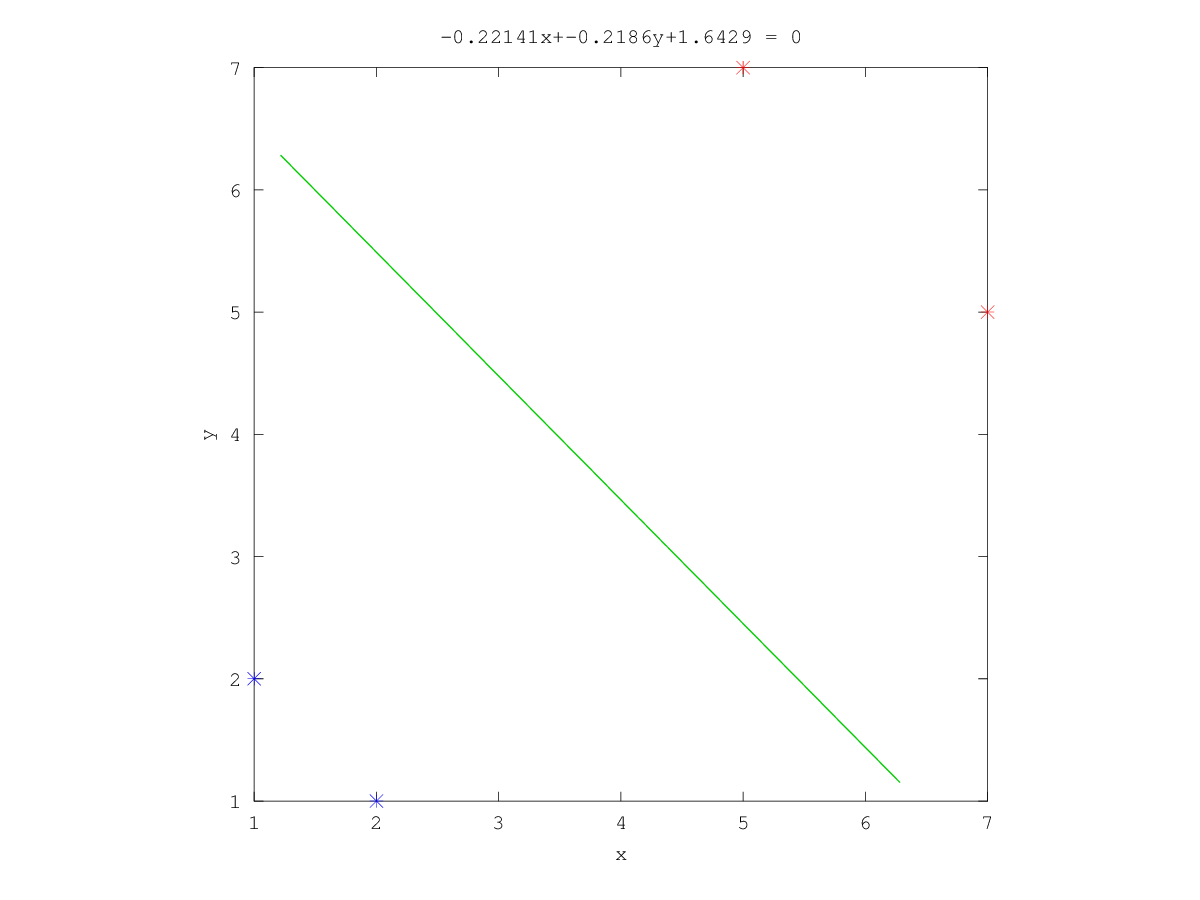
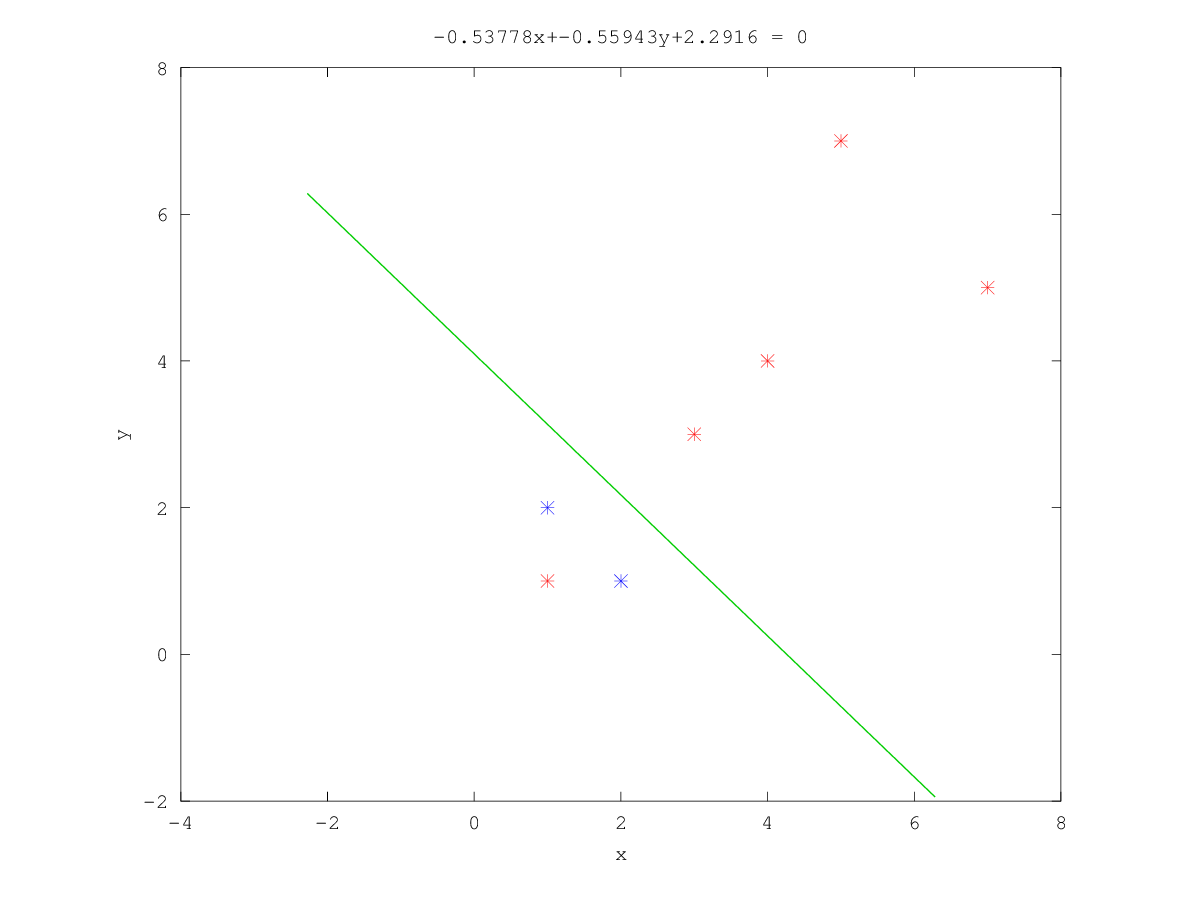
First working version of svmTrain
Don't now if this is already the solution...

diff --git a/hw3/testSVM.m b/hw3/testSVM.m
@@ -10,8 +10,8 @@ VLFEAT_FOLDER = '../vlfeat'; %Put here the path to the root floder of VlFeat
 addpath ([VLFEAT_FOLDER, '/toolbox']);
 vl_setup;
 
-X = [1, 2; 2, 1; 5, 7; 7, 5];
-y = [1; 1; -1; -1;];
+X = [1, 2; 2, 1; 5, 7; 7, 5; 3, 3; 4, 4; 1, 1]
+y = [1; 1; -1; -1; -1; -1; -1];
 
 X = X';
 y = y';
@@ -27,10 +27,16 @@ hold on
 plot(Xp(1,:),Xp(2,:),'*b')
 axis equal ;
 
-lambda = 0.01 ; % Regularization parameter
+lambda = 0.02 ; % Regularization parameter
 maxIter = 1000 ; % Maximum number of iterations
 
 [w b info] = vl_svmtrain(X, y, lambda, 'MaxNumIterations', maxIter);
+
+result = w' * X + b;
+result(result > 0) = 1;
+result(result <= 0) = -1;
+positive = sum(result == 1)
+negative = sum(result == -1)
 
 % Visualisation
 eq = [num2str(w(1)) '*x+' num2str(w(2)) '*y+' num2str(b)];

diff --git a/hw3/hw3.m b/hw3/hw3.m
@@ -64,16 +64,26 @@ LabelsTest = Labels(1,testIdx);
 % Training 
 fprintf('Training ... ');
 VLFEAT_FOLDER = '../vlfeat'; %Put here the path to the root floder of VlFeat
-run([VLFEAT_FOLDER  '/toolbox/vl_setup.m']);
+addpath ([VLFEAT_FOLDER, '/toolbox']);
+vl_setup;
 
 tic;
-% Put here the SVM training code here
+
+DataTrain = DataTrain';
+LabelsTrain = LabelsTrain';
+
+lambda = 0.75; % Regularization parameter
+maxIter = 100000; % Maximum number of iterations
+
+[w b info] = vl_svmtrain(DataTrain, LabelsTrain, lambda, 'MaxNumIterations', maxIter);
+
 toc;
+
 %keyboard
 %%
 % Test Svm.
 % compute the test scores of the SVM
-scores = 10;% complete the code
+scores = w' * DataTest' + b;
 
 classifierOutput = (scores >= 0.0) - (scores < 0.0);
 
